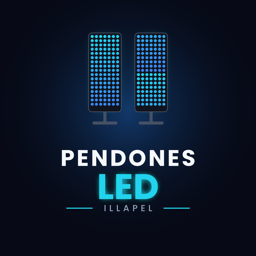
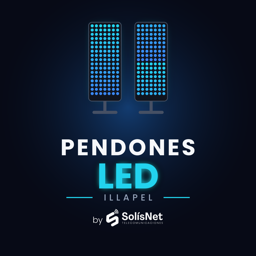
Add files via upload

Changed region(s): [[0.2188, 0.5312, 0.7812, 0.9062], [0.3438, 0.0625, 0.6562, 0.5]]

diff --git a/index.html b/index.html
@@ -3,7 +3,7 @@
 <head>
 <meta charset="utf-8">
 <meta name="viewport" content="width=device-width, initial-scale=1">
-<title>Pendones LED Illapel</title>
+<title>Pendones LED Illapel by SolísNet</title>
 <meta name="description" content="Pendones LED para ferias, locales, eventos y empresas en Illapel y la Provincia del Choapa. Diseñamos tu contenido animado.">
 <link rel="icon" href="assets/icon.png">
 <link rel="preconnect" href="https://fonts.googleapis.com">
@@ -28,7 +28,7 @@
   /* nav */
   nav{position:sticky;top:0;z-index:20;background:rgba(7,10,22,.82);backdrop-filter:blur(10px);border-bottom:1px solid var(--line)}
   nav .wrap{display:flex;align-items:center;justify-content:space-between;height:68px}
-  nav img{height:40px;width:auto}
+  nav img{height:46px;width:auto}
   nav .btn{padding:10px 18px;font-size:14px}
 
   /* hero */
@@ -207,7 +207,7 @@
 <footer>
   <div class="wrap">
     <img src="assets/logo.png" alt="Pendones LED Illapel">
-    <div>© 2026 Pendones LED Illapel · +56 9 5195 4852 · pendones.led.solisnet@gmail.com</div>
+    <div>© 2026 Pendones LED Illapel by SolísNet · +56 9 5195 4852 · pendones.led.solisnet@gmail.com</div>
   </div>
 </footer>
 
